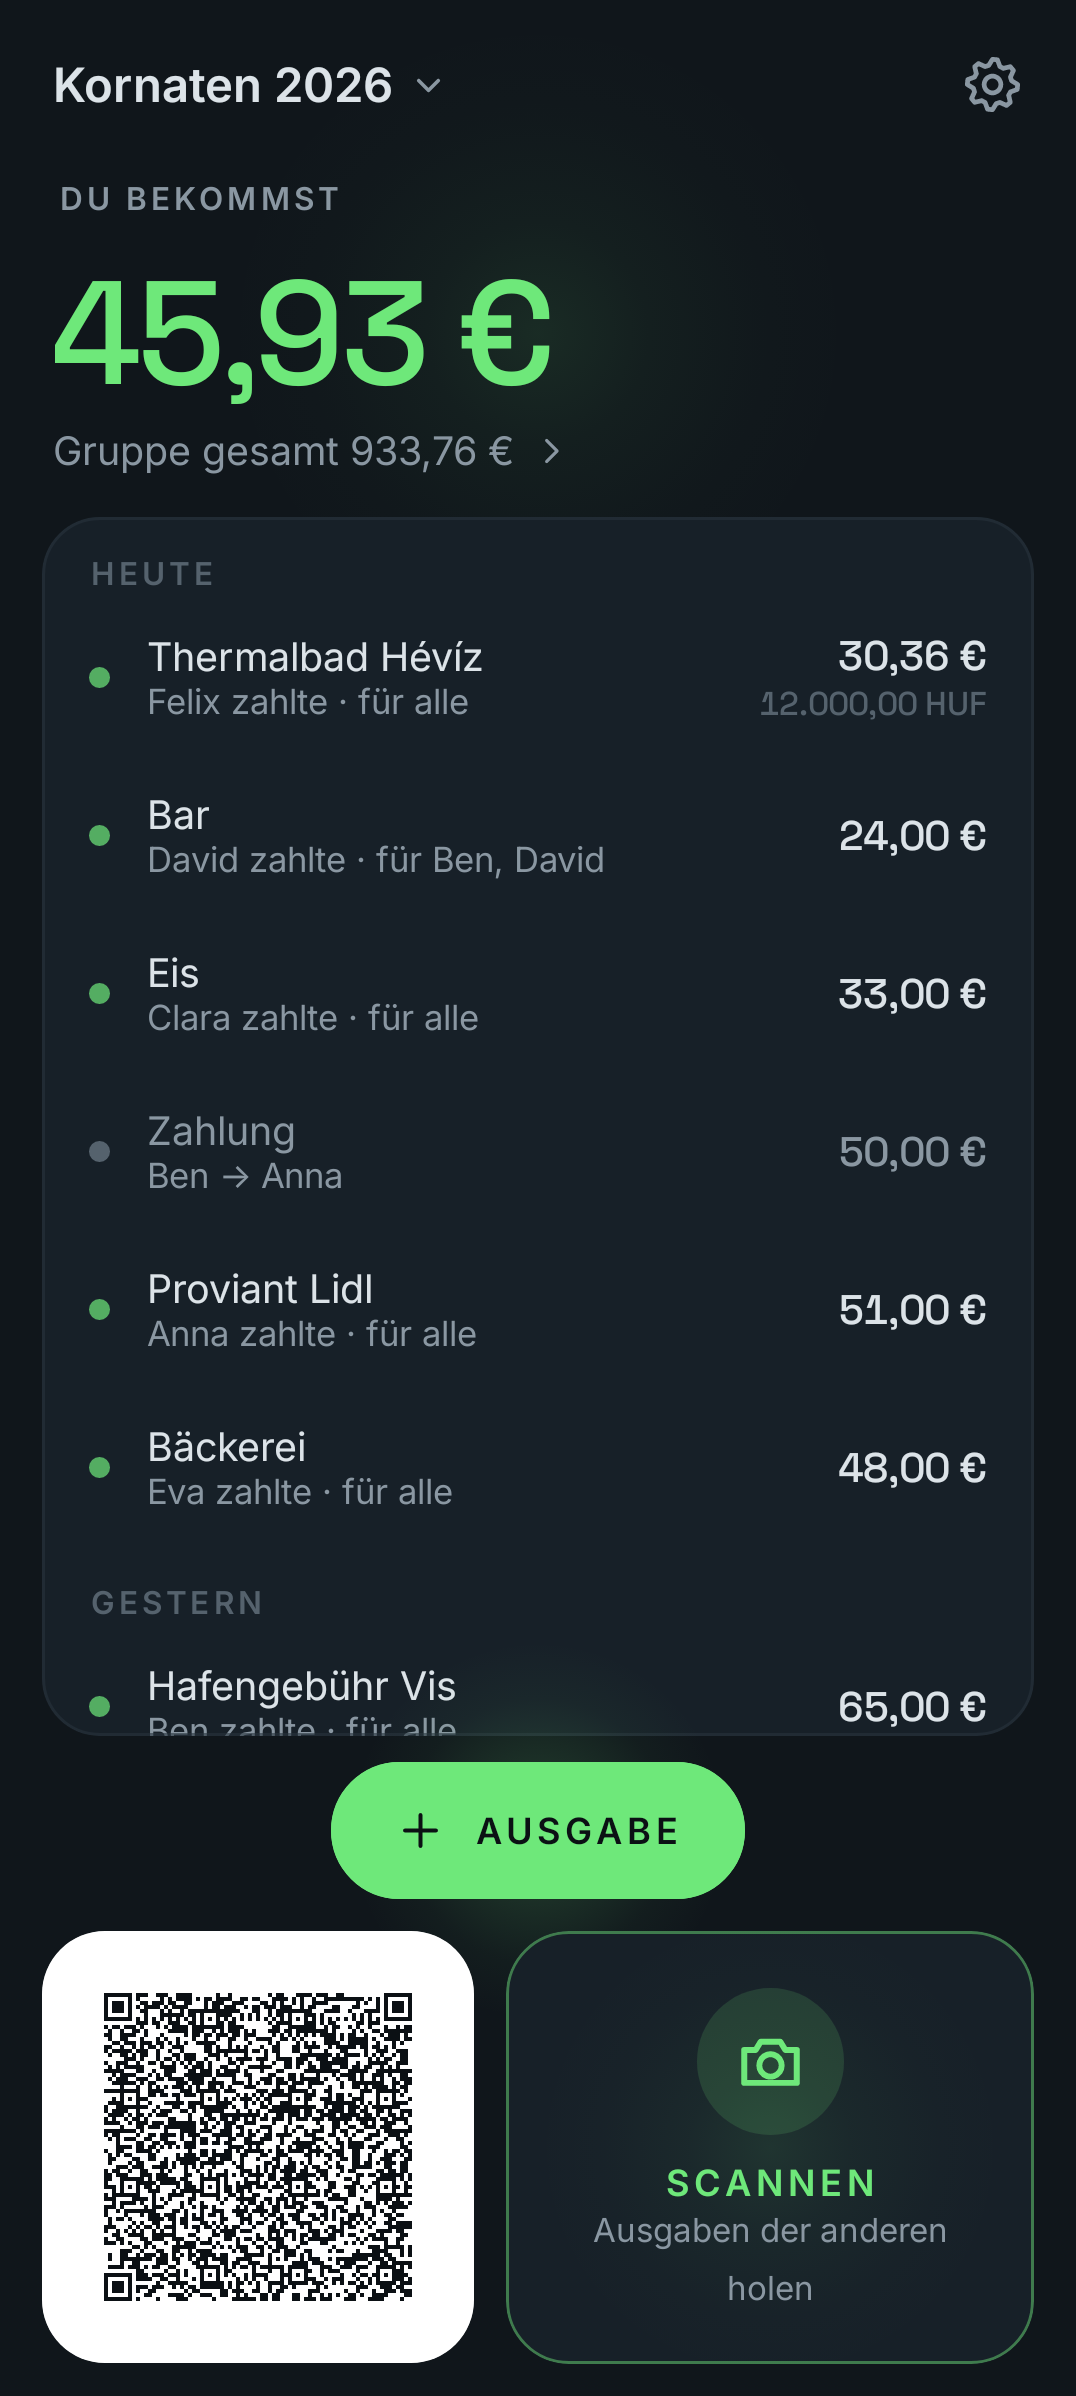
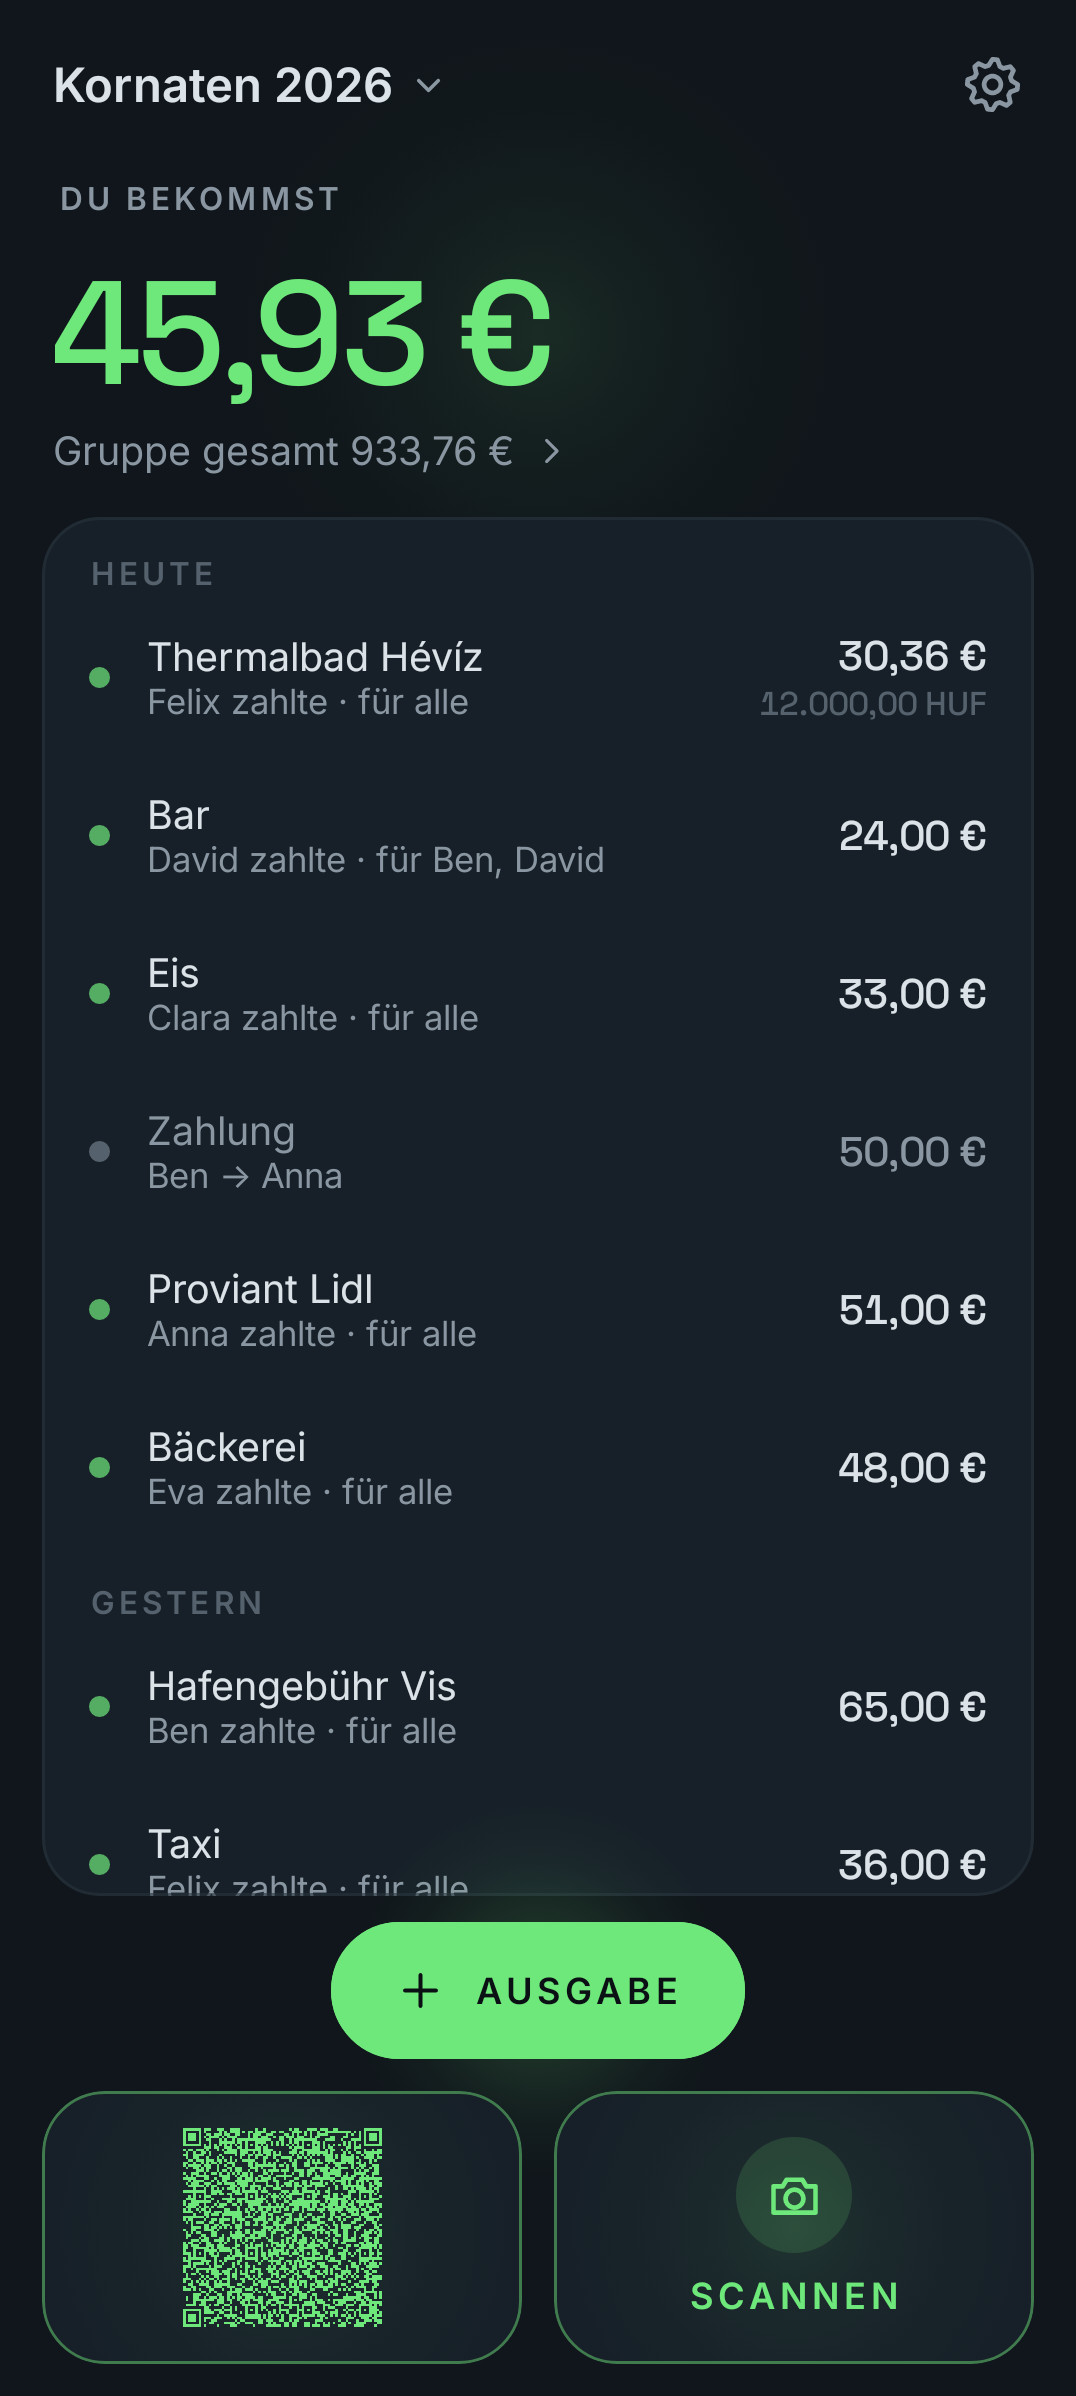
dividr: kompakte gleich grosse Kacheln, QR-Vorschau in Akzentgrün

Changed region(s): [[0.0307, 0.7104, 0.8587, 0.9883], [0.7667, 0.7721, 0.9201, 0.803], [0.9507, 0.8648, 0.9814, 0.8957]]

diff --git a/apps/dividr/src/main/kotlin/solutions/xapient/dividr/ui/GroupScreen.kt b/apps/dividr/src/main/kotlin/solutions/xapient/dividr/ui/GroupScreen.kt
@@ -14,7 +14,6 @@ import androidx.compose.foundation.layout.Column
 import androidx.compose.foundation.layout.ColumnScope
 import androidx.compose.foundation.layout.Row
 import androidx.compose.foundation.layout.Spacer
-import androidx.compose.foundation.layout.aspectRatio
 import androidx.compose.foundation.layout.fillMaxHeight
 import androidx.compose.foundation.layout.fillMaxSize
 import androidx.compose.foundation.layout.fillMaxWidth
@@ -67,7 +66,7 @@ import solutions.xapient.dividr.domain.isFallback
 import solutions.xapient.dividr.domain.resolve
 import solutions.xapient.dividr.domain.totalSpent
 import solutions.xapient.dividr.domain.visibleEntries
-import solutions.xapient.dividr.qr.QrImage
+import solutions.xapient.dividr.qr.QrPreview
 import solutions.xapient.dividr.qr.QrMatrix
 import java.util.Locale
 
@@ -316,14 +315,16 @@ private fun EntryRow(group: Group, e: Entry, locale: Locale, onClick: () -> Unit
     }
 }
 
-// Unten: eigener Code (weisse Karte) links, Scannen rechts
+// Unten: eigener Code links, Scannen rechts; gleich gross und niedrig
 @Composable
 private fun Exchange(codes: List<QrMatrix>, onQr: () -> Unit, onScan: () -> Unit, modifier: Modifier = Modifier) {
-    Row(modifier.fillMaxWidth().heightIn(max = 220.dp), horizontalArrangement = Arrangement.spacedBy(12.dp)) {
-        QrCard(codes, onQr, Modifier.weight(0.45f))
-        ScanTile(onScan, Modifier.weight(0.55f).aspectRatio(1.22f))
+    Row(modifier.fillMaxWidth().height(TILE_HEIGHT), horizontalArrangement = Arrangement.spacedBy(12.dp)) {
+        QrCard(codes, onQr, Modifier.weight(1f))
+        ScanTile(onScan, Modifier.weight(1f))
     }
 }
+
+private val TILE_HEIGHT = 104.dp
 
 @Composable
 private fun QrCard(codes: List<QrMatrix>, onQr: () -> Unit, modifier: Modifier) {
@@ -332,24 +333,25 @@ private fun QrCard(codes: List<QrMatrix>, onQr: () -> Unit, modifier: Modifier) 
     val pressed by source.collectIsPressedAsState()
     Box(
         modifier
-            .aspectRatio(1f)
+            .fillMaxHeight()
             .pressScale(pressed, 0.96f)
             .clip(RoundedCornerShape(24.dp))
-            .background(if (codes.size == 1) Color.White else c.surface)
-            .border(1.5.dp, if (codes.size == 1) Color.White.copy(alpha = 0.5f) else c.line, RoundedCornerShape(24.dp))
+            .background(c.surface)
+            .border(1.dp, c.accent.copy(alpha = 0.45f), RoundedCornerShape(24.dp))
+            .glow(c.accent, 90.dp, 0.10f)
             .clickable(source, indication = null, role = Role.Button, onClickLabel = stringResource(R.string.show_code), onClick = onQr)
-            .padding(10.dp),
+            .padding(14.dp),
         contentAlignment = Alignment.Center,
     ) {
         when (codes.size) {
-            1 -> QrImage(codes[0], stringResource(R.string.my_code), Modifier.fillMaxSize(), corner = 10.dp)
+            1 -> QrPreview(codes[0], c.accent, stringResource(R.string.my_code), Modifier.fillMaxHeight())
             else -> {
                 val text = if (codes.isEmpty()) stringResource(R.string.too_big_short)
                 else pluralStringResource(R.plurals.parts_tap, codes.size, codes.size)
                 ColumnCenter {
-                    AappsIcon(DividrIcons.Scan, null, c.accent, size = 30.dp)
-                    Spacer(Modifier.height(8.dp))
-                    BasicText(text, style = Aapps.type.body.copy(color = c.fg, textAlign = TextAlign.Center))
+                    AappsIcon(DividrIcons.Scan, null, c.accent, size = 24.dp)
+                    Spacer(Modifier.height(6.dp))
+                    BasicText(text, style = Aapps.type.body.copy(color = c.fg, textAlign = TextAlign.Center), maxLines = 2, overflow = TextOverflow.Ellipsis)
                 }
             }
         }
@@ -373,22 +375,15 @@ private fun ScanTile(onScan: () -> Unit, modifier: Modifier) {
             .background(c.surface)
             .border(1.dp, c.accent.copy(alpha = 0.45f), RoundedCornerShape(24.dp))
             .glow(c.accent, 90.dp, 0.10f)
-            .clickable(source, indication = null, role = Role.Button, onClick = onScan)
-            .padding(16.dp),
+            .clickable(source, indication = null, role = Role.Button, onClickLabel = stringResource(R.string.scan_sub), onClick = onScan)
+            .padding(10.dp),
         verticalArrangement = Arrangement.Center,
         horizontalAlignment = Alignment.CenterHorizontally,
     ) {
-        Box(Modifier.size(56.dp).background(c.accent.copy(alpha = 0.14f), CircleShape), contentAlignment = Alignment.Center) {
-            AappsIcon(DividrIcons.Camera, null, c.accent, size = 30.dp)
+        Box(Modifier.size(44.dp).background(c.accent.copy(alpha = 0.14f), CircleShape), contentAlignment = Alignment.Center) {
+            AappsIcon(DividrIcons.Camera, null, c.accent, size = 24.dp)
         }
-        Spacer(Modifier.height(10.dp))
-        BasicText(stringResource(R.string.scan).uppercase(), style = Aapps.type.label.copy(color = c.accent, fontSize = Aapps.type.label.fontSize * 1.15f))
-        Spacer(Modifier.height(2.dp))
-        BasicText(
-            stringResource(R.string.scan_sub),
-            style = Aapps.type.body.copy(color = c.fgMuted, fontSize = Aapps.type.label.fontSize * 1.05f, textAlign = TextAlign.Center),
-            maxLines = 2,
-            overflow = TextOverflow.Ellipsis,
-        )
+        Spacer(Modifier.height(8.dp))
+        BasicText(stringResource(R.string.scan).uppercase(), style = Aapps.type.label.copy(color = c.accent, fontSize = Aapps.type.label.fontSize * 1.15f), maxLines = 1)
     }
 }

diff --git a/apps/dividr/src/main/kotlin/solutions/xapient/dividr/qr/Qr.kt b/apps/dividr/src/main/kotlin/solutions/xapient/dividr/qr/Qr.kt
@@ -16,6 +16,7 @@ import androidx.compose.ui.graphics.Color
 import androidx.compose.ui.graphics.FilterQuality
 import androidx.compose.ui.graphics.ImageBitmap
 import androidx.compose.ui.graphics.asImageBitmap
+import androidx.compose.ui.graphics.toArgb
 import androidx.compose.ui.semantics.contentDescription
 import androidx.compose.ui.semantics.semantics
 import androidx.compose.ui.unit.Dp
@@ -30,10 +31,10 @@ class QrMatrix(val size: Int, val version: Int, private val dark: BooleanArray) 
     operator fun get(x: Int, y: Int) = dark[y * size + x]
 
     // 1 Pixel je Modul, inkl. Ruhezone von 4 Modulen; gross gezeichnet ohne Glaettung = scharf
-    fun bitmap(): ImageBitmap {
-        val n = size + 2 * QUIET
-        val px = IntArray(n * n) { WHITE }
-        for (y in 0 until size) for (x in 0 until size) if (this[x, y]) px[(y + QUIET) * n + x + QUIET] = BLACK
+    fun bitmap(fg: Int = BLACK, bg: Int = WHITE, quiet: Int = QUIET): ImageBitmap {
+        val n = size + 2 * quiet
+        val px = IntArray(n * n) { bg }
+        for (y in 0 until size) for (x in 0 until size) if (this[x, y]) px[(y + quiet) * n + x + quiet] = fg
         return Bitmap.createBitmap(px, n, n, Bitmap.Config.ARGB_8888).asImageBitmap()
     }
 
@@ -70,5 +71,17 @@ fun QrImage(matrix: QrMatrix, description: String, modifier: Modifier = Modifier
             val off = IntOffset((size.width.toInt() - s) / 2, (size.height.toInt() - s) / 2)
             drawImage(img, srcSize = IntSize(n, n), dstOffset = off, dstSize = IntSize(s, s), filterQuality = FilterQuality.None)
         }
+    }
+}
+
+// Nur Vorschau: Module in Farbe auf transparentem Grund, nicht zum Scannen gedacht
+@Composable
+fun QrPreview(matrix: QrMatrix, color: Color, description: String, modifier: Modifier = Modifier) {
+    val argb = color.toArgb()
+    val img = remember(matrix, argb) { matrix.bitmap(fg = argb, bg = 0, quiet = 0) }
+    Canvas(modifier.aspectRatio(1f).semantics { contentDescription = description }) {
+        val side = minOf(size.width, size.height).toInt()
+        val off = IntOffset((size.width.toInt() - side) / 2, (size.height.toInt() - side) / 2)
+        drawImage(img, srcSize = IntSize(img.width, img.height), dstOffset = off, dstSize = IntSize(side, side), filterQuality = FilterQuality.None)
     }
 }
